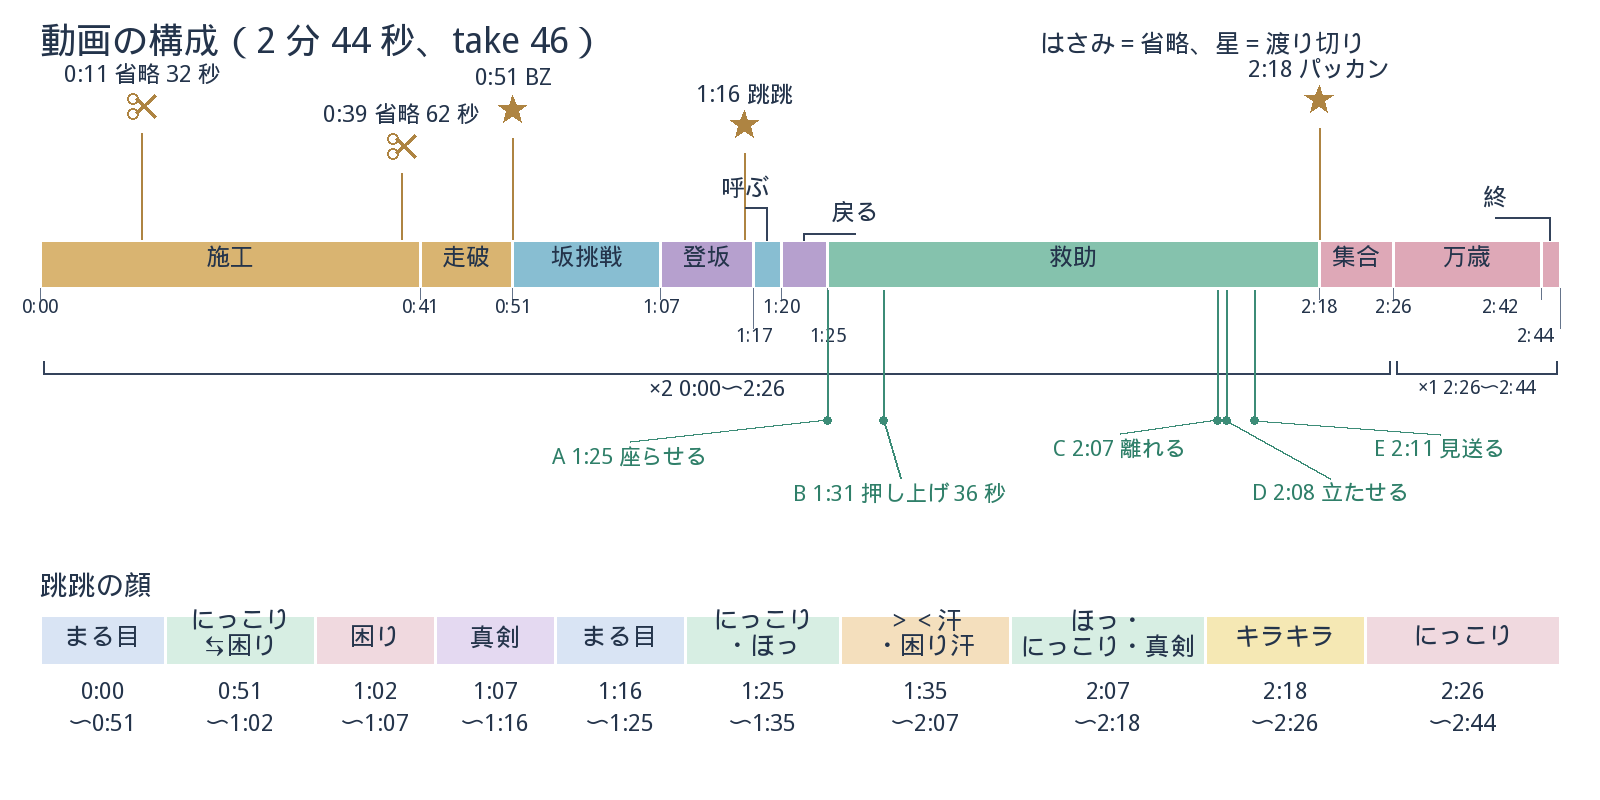
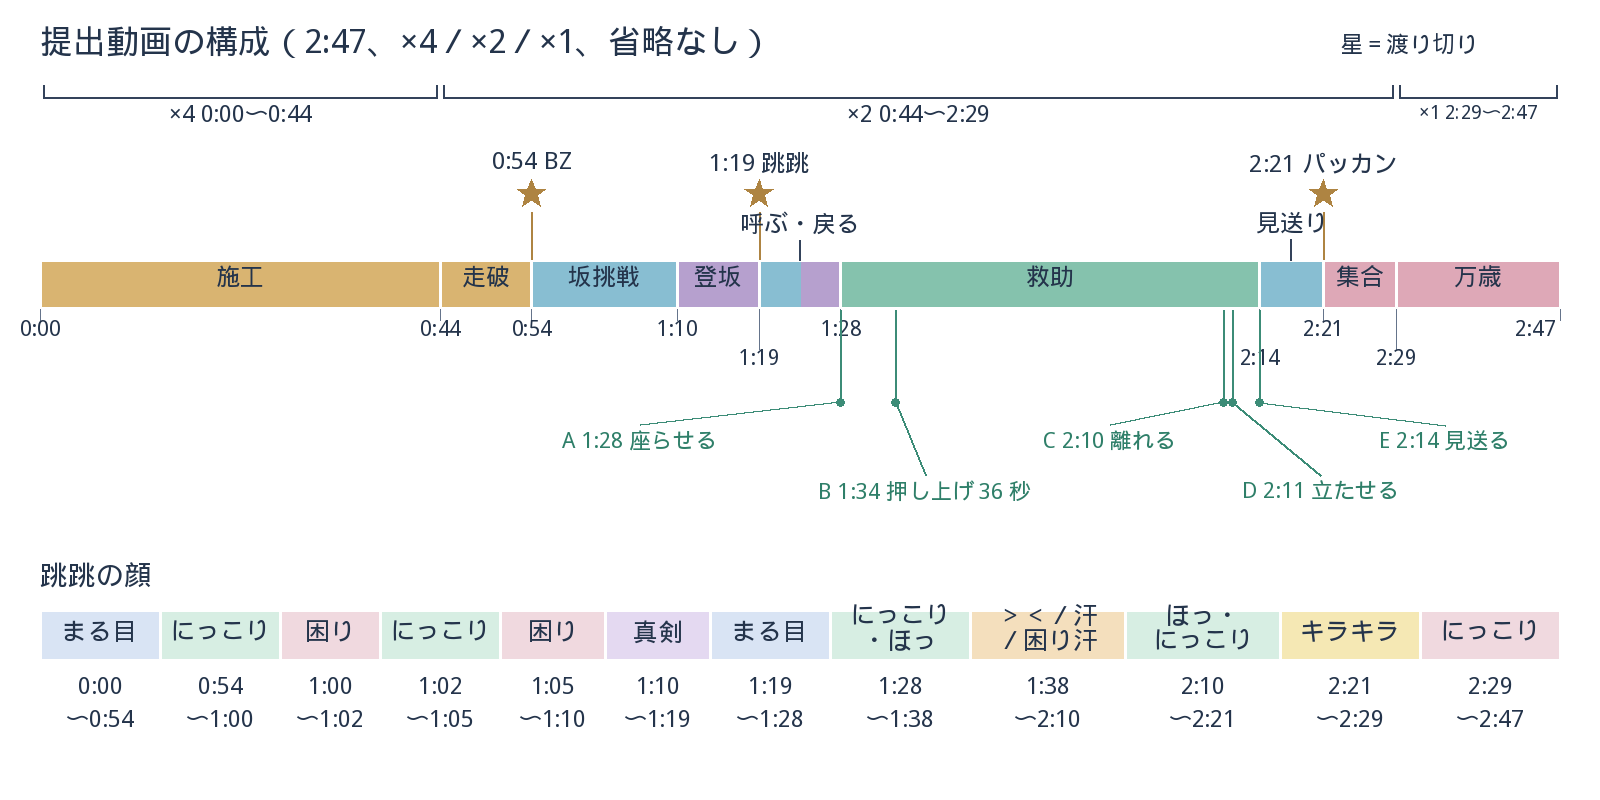
report: the timeline figure redrawn for the submitted video (2:47, x4/x2/x1, no cuts) and the overview figure corrected
- report/timeline_ortiz.png: speed brackets, nine scenes, the three crossings (0:54 / 1:19 / 2:21), the
  manager's five moves (1:28 / 1:34 / 2:10 / 2:11 / 2:14) and the crab's twelve face spans, all checked
  against out/v7_full_report_take51.json.  Back in README and docs/video_guide.md.
- report/system_overview_ortiz.png: the manager is labelled without the work's name, 跳跳 instead of
  カニ, and the mood net's training time is 3.5 s (about 1 min for the whole script).
- The previous versions are kept in docs/devlog/figures/.

diff --git a/THIRD_PARTY.md b/THIRD_PARTY.md
@@ -224,9 +224,9 @@ Q 表版は本リポジトリで実装した表形式 Q 学習で（`manager2_ta
 `report/faces_sheet_ja.png` は `analysis/face_sheet.py` が描く。
 
 図中の数値と規則は `crab_face.py`、`crab_help.py`、報告 JSON、`out/manager_runs/comparison_v4.md` と照合した（記録は `docs/devlog/face_rules_chart.md`）。
-照合で見つかったずれは `docs/devlog/README.md` の訂正表に記す：タイムライン図の時刻は提出版より前の版のもの（訂正表 6）、
-全体図は公式ポリシー 5 本のうち 4 本分の次元だけを載せる（訂正表 14）、
-全体図と気分ネットの図の「CPU 1 分」は学習ループ（3.5 s、`out/manager_runs/mood_net/meta.json` の `train_s`）でなくスクリプト全体の目安（訂正表 8）。
+照合で見つかったずれは `docs/devlog/README.md` の訂正表に記す：全体図は公式ポリシー 5 本のうち 4 本分の次元だけを載せる（訂正表 14）、
+気分ネットの図の「CPU 1 分」は学習ループ（3.5 s、`out/manager_runs/mood_net/meta.json` の `train_s`）でなくスクリプト全体の目安（訂正表 8）。
+タイムライン図と全体図は提出版に合わせて描き直した（訂正表 6、旧図は `docs/devlog/figures/`）。
 
 公式ポリシーが見せる歩行・ジャンプ・ダンスの出来は提供元の成果である。
 本作で作成したのは、3 体の統合、失敗したときの次の一手を選ぶ支配人 AI、表情を推論する気分ネットである。

diff --git a/docs/video_guide.md b/docs/video_guide.md
@@ -15,6 +15,10 @@ python analysis/timeline_times.py out/v7_full_report_take51.json
 動画には Microduck の 3D モデル（メッシュは CC BY-NC-SA 4.0、`microduck_rl` の `LICENSE-MODELS.md`）の外観が映るため、
 動画は CC BY-NC-SA 4.0 の条件で扱う（帰属：Pollen Robotics、microduck_rl）。リポジトリのコードは MIT（`LICENSE`、詳細は `THIRD_PARTY.md`）。
 
+![提出動画の構成](../report/timeline_ortiz.png)
+
+図：上のかっこが再生速度、帯が場面と主役（色）、星が渡り切り、A〜E が支配人 AI の 5 手、下の帯が跳跳の顔。時刻は本書の表と同じ出所。
+
 ## 1. 画面の読み方
 
 ### 速度区間
